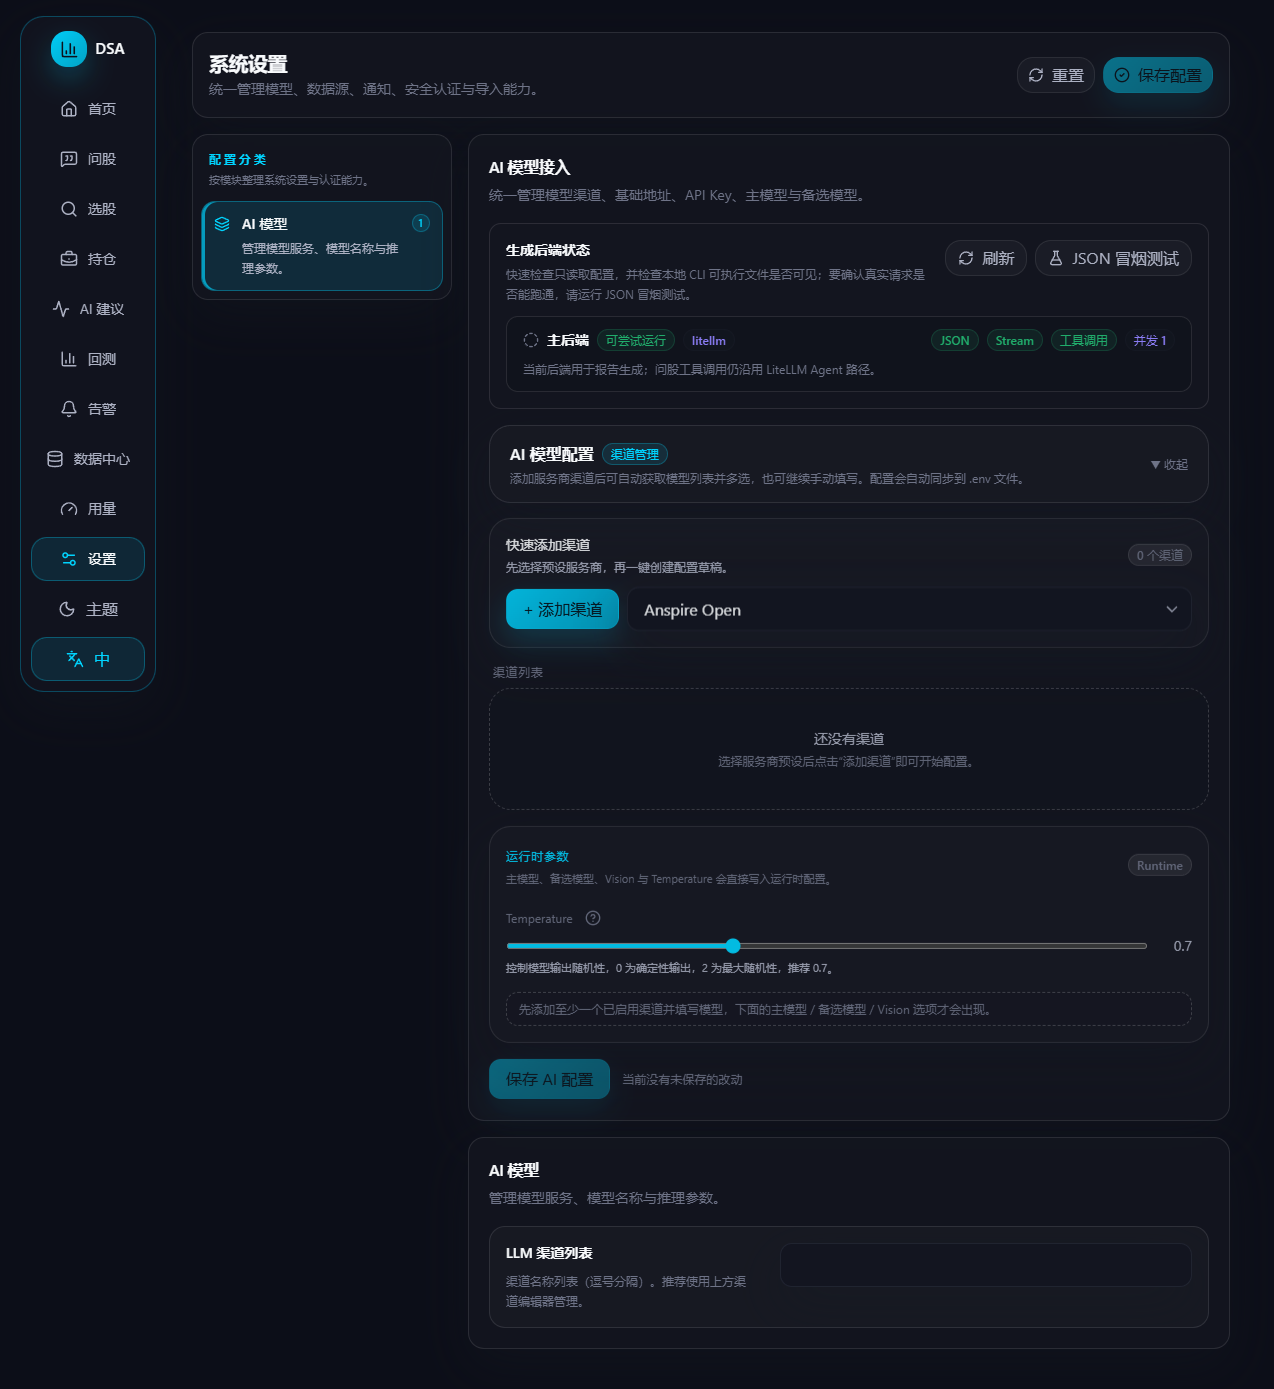
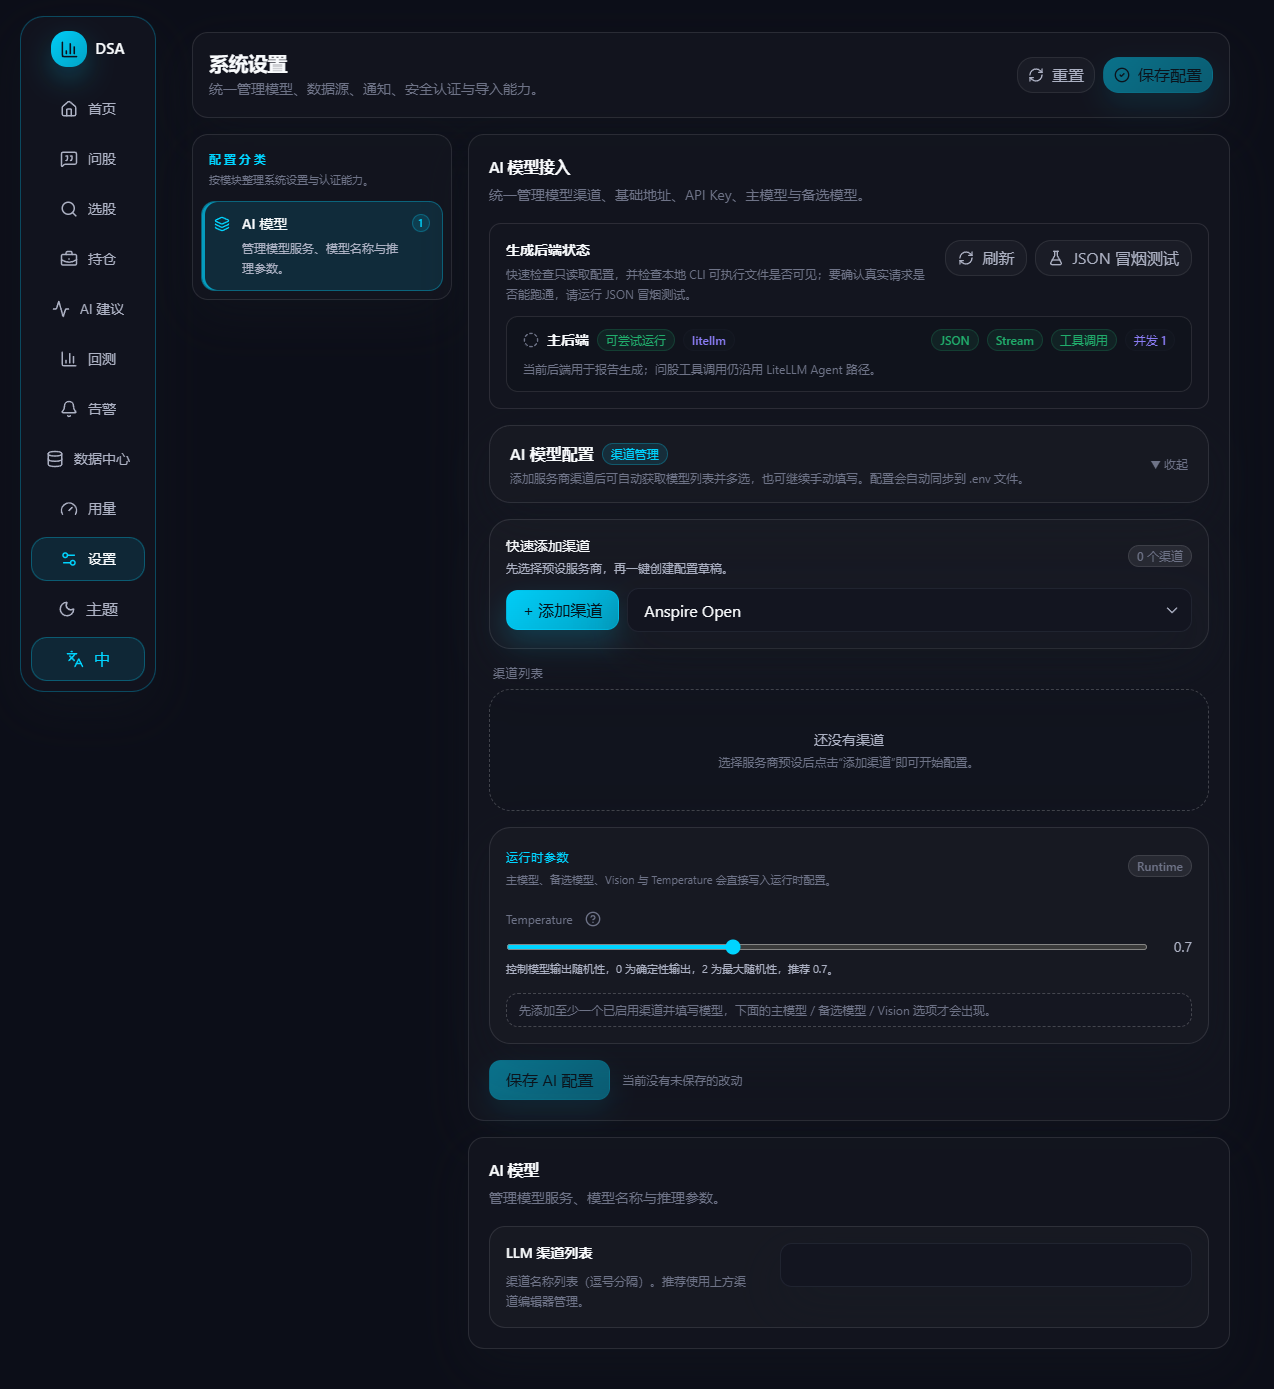
docs: add validation guidance and registration evidence

diff --git a/pr-evidence/modelflare-compact/README.md b/pr-evidence/modelflare-compact/README.md
@@ -1,10 +1,11 @@
 # Modelflare visual evidence
 
-README captured on 2026-10-13 for product commit `f92174941bd3e2971d9a8758ae3efdc5ffe650af`. Web screenshots were captured for `c160a0ce96aff90233f511eed27a107aa749f0ff`; Web and backend code are unchanged in the subsequent documentation-only commit.
+Captured on 2026-10-13 for product commit `850d46e32976fff9d26b8ce2ce5501b73272da5d`.
 
 - README screenshots: actual GitHub rendering of that commit in Simplified Chinese, Traditional Chinese and English. Default expanded state, collapse/reopen verified. Desktop viewport: 1274 × 900; mobile viewport: 390 × 844.
 - Before screenshot: original product commit `7c7608cde85cbf5f2d943978ab433e7b769cc46b`, same desktop viewport, old sponsor details expanded. Captures are cropped to the affected sponsor section.
 - Web screenshots: real application build containing current product changes, using the same deterministic API boundary as `apps/dsa-web/e2e/fixtures/settings-guard.spec.ts`. They demonstrate actual UI rendering and conditional registration visibility, not backend connectivity. No credentials were supplied to the page.
+- `web-config-validation-*` and `web-channel-registration.png`: current build connected to the real locally running backend; only the configuration-list GET is replaced with an empty editor to keep credentials out of screenshots. Preview/status use the actual backend. Adding a channel with no Key returns HTTP 400 `validation_failed`; the page displays `LLM_MODELFLARE_API_KEY` and the corrective instruction instead of the generic English failure. No configuration is saved. The channel details registration link uses the supplied app UTM.
 - Backend connectivity was checked separately through real DSA `/config/llm/discover-models` and `/config/llm/test-channel` requests. API Key was provided only in process memory and is not part of these artifacts.
 - Reproduce README: open the product commit's README on GitHub, confirm the sponsor section starts open, click its summary to collapse and reopen.
 - Reproduce Web: build Web, open Settings → AI models, select Modelflare and Anspire under Quick add; registration is visible only for Modelflare. Inspect desktop and 390px mobile views.
